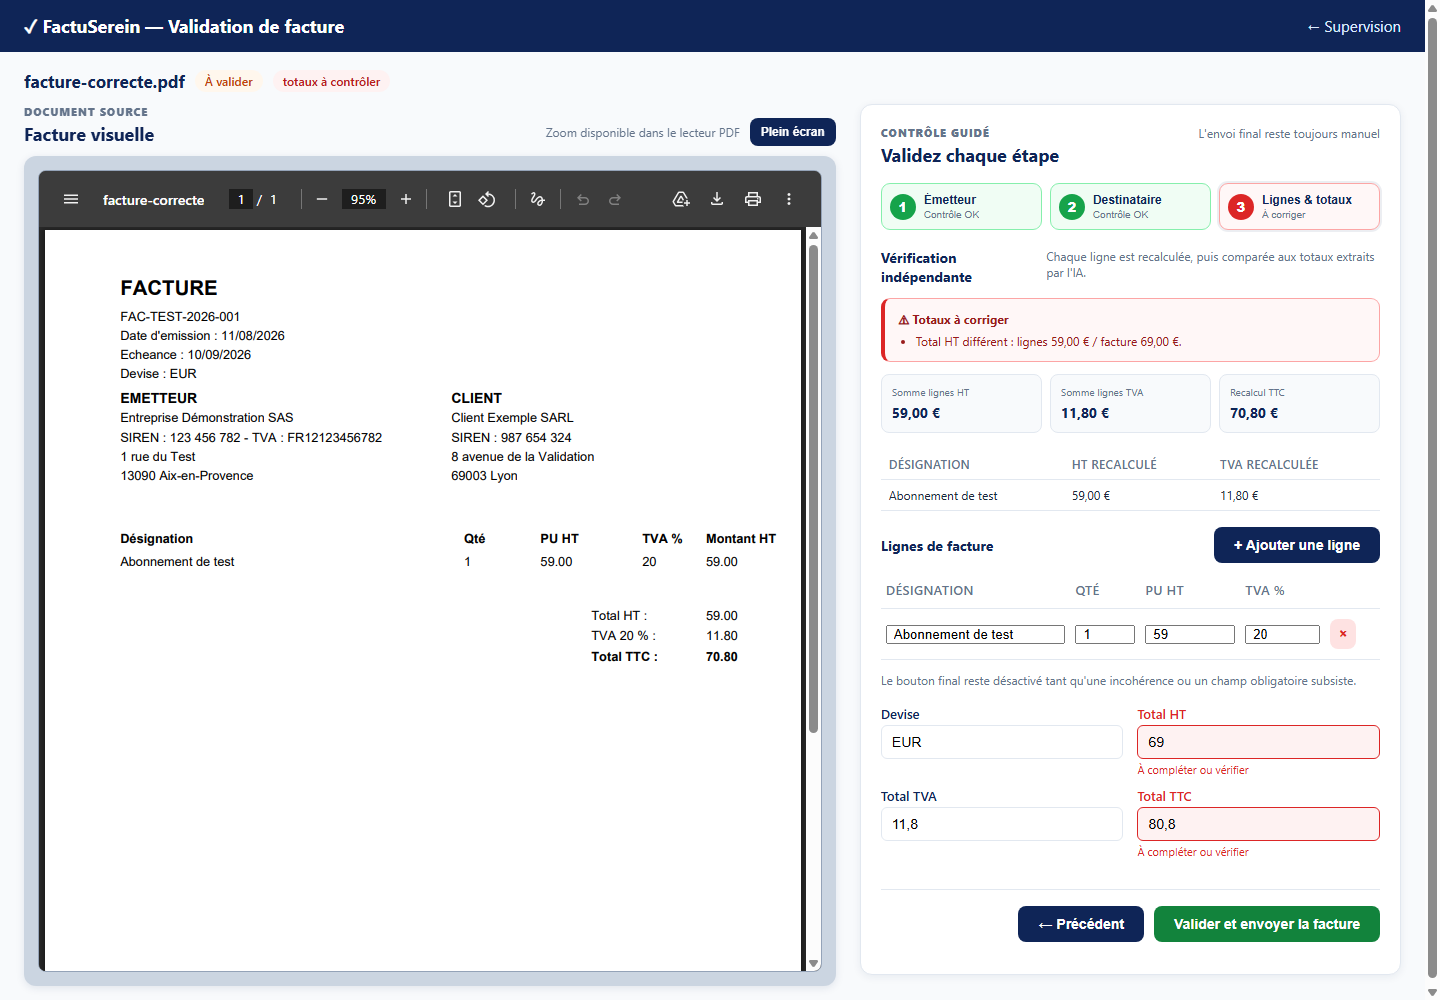
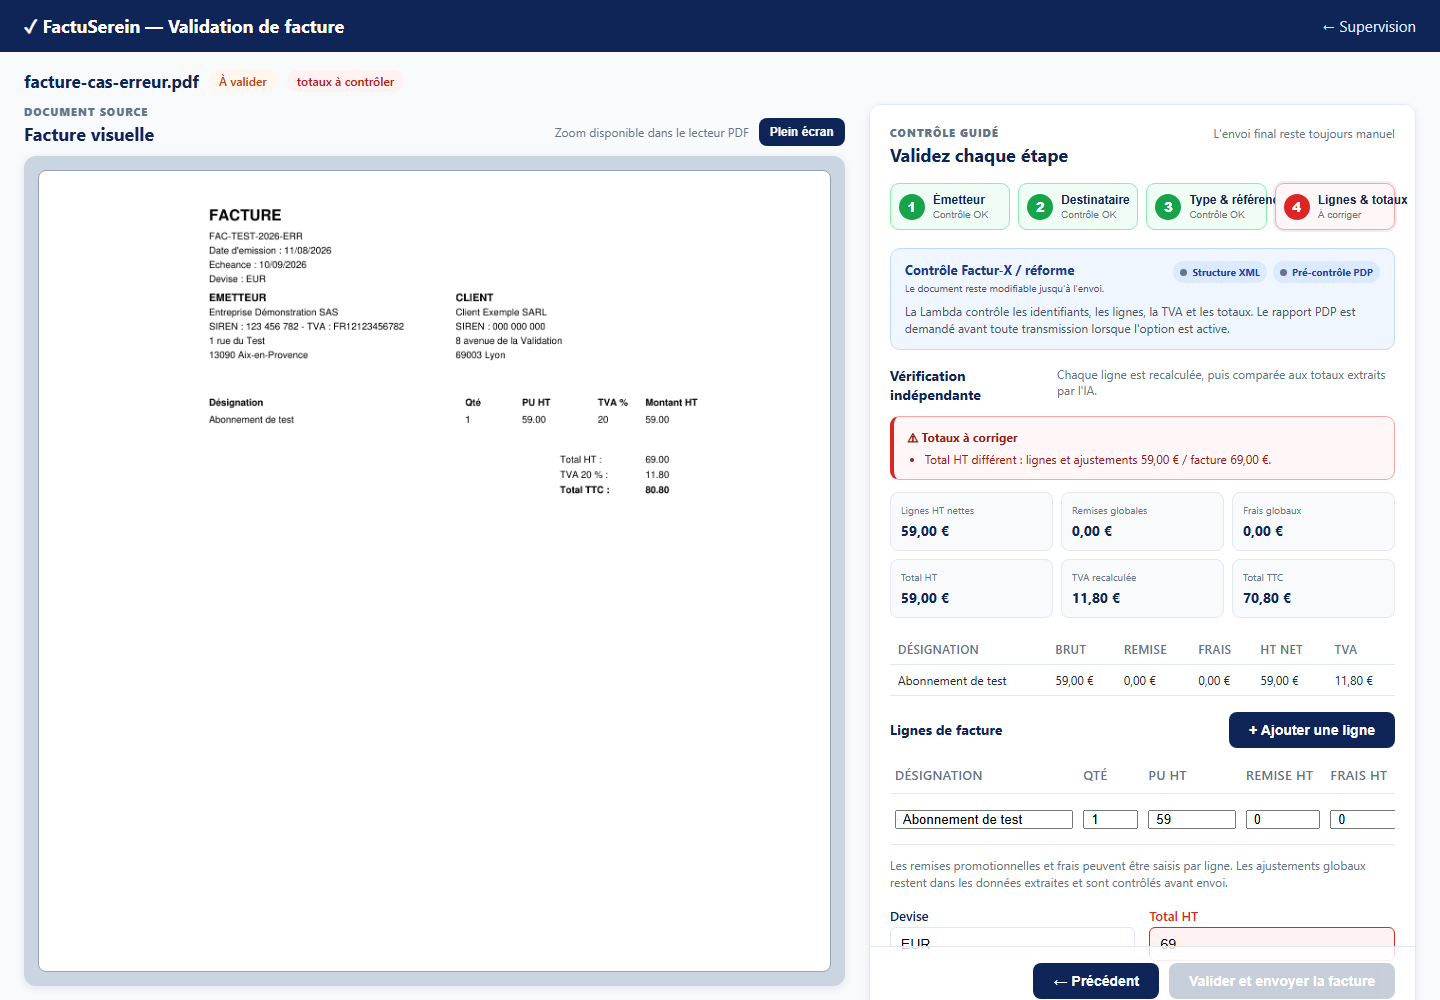
fix: align public product screenshots

diff --git a/outils/telecharger.html b/outils/telecharger.html
@@ -106,10 +106,6 @@
             <figcaption><strong>Émetteur reconnu.</strong> Le profil enregistré est comparé au SIREN de la facture avant toute transmission.</figcaption>
           </figure>
           <figure class="app-slide" data-slide aria-hidden="true">
-            <img src="../assets/img/app-screenshot-validation-details.png" alt="Détail de l'étape lignes et totaux avec le recalcul indépendant" width="1440" height="1000" loading="lazy">
-            <figcaption><strong>Contrôle indépendant.</strong> Les lignes, la TVA et le TTC sont recalculés puis affichés avec les champs éditables.</figcaption>
-          </figure>
-          <figure class="app-slide" data-slide aria-hidden="true">
             <img src="../assets/img/app-screenshot-validation-error.png" alt="Vue de validation affichant les totaux incohérents en rouge avant l'envoi" width="1440" height="1000" loading="lazy">
             <figcaption><strong>Cas à corriger.</strong> Dans cet exemple de test, le total est volontairement divergent : les champs en erreur sont signalés avant tout envoi.</figcaption>
           </figure>
@@ -131,9 +127,8 @@
             <button class="carousel-dot" type="button" data-carousel-dot="4" role="tab" aria-selected="false" aria-label="Afficher la capture Réglages"></button>
             <button class="carousel-dot" type="button" data-carousel-dot="5" role="tab" aria-selected="false" aria-label="Afficher la capture Lignes et totaux"></button>
             <button class="carousel-dot" type="button" data-carousel-dot="6" role="tab" aria-selected="false" aria-label="Afficher la capture Émetteur reconnu"></button>
-            <button class="carousel-dot" type="button" data-carousel-dot="7" role="tab" aria-selected="false" aria-label="Afficher la capture Contrôle indépendant"></button>
-            <button class="carousel-dot" type="button" data-carousel-dot="8" role="tab" aria-selected="false" aria-label="Afficher la capture Erreur et champs manquants"></button>
-            <button class="carousel-dot" type="button" data-carousel-dot="9" role="tab" aria-selected="false" aria-label="Afficher la capture Facture scannée"></button>
+            <button class="carousel-dot" type="button" data-carousel-dot="7" role="tab" aria-selected="false" aria-label="Afficher la capture Erreur et champs manquants"></button>
+            <button class="carousel-dot" type="button" data-carousel-dot="8" role="tab" aria-selected="false" aria-label="Afficher la capture Facture scannée"></button>
           </div>
           <button class="carousel-arrow" type="button" data-carousel-next aria-label="Afficher la capture suivante" title="Capture suivante">
             <span class="carousel-arrow-label">Suivante</span>

diff --git a/docs/CAPTURES-CAROUSEL.md b/docs/CAPTURES-CAROUSEL.md
@@ -2,6 +2,11 @@
 
 Le carousel de `outils/telecharger.html` présente des captures réelles de l'interface Windows. Les données affichées doivent rester fictives ou anonymisées.
 
+Les captures publiées dans le carousel utilisent le même cadre `1440×1000` afin
+que le passage d'un écran à l'autre ne déplace pas la page. Un recadrage de
+détail peut rester dans le dépôt pour la documentation interne, mais ne doit
+pas être utilisé comme slide public.
+
 `app-screenshot-tauri-settings.png` est une capture de la vraie fenêtre Tauri
 Windows, sans chemin utilisateur ni donnée personnelle. Les captures de
 validation sont prises sur l'interface de contrôle du service avec des
